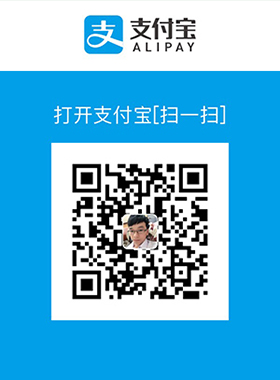
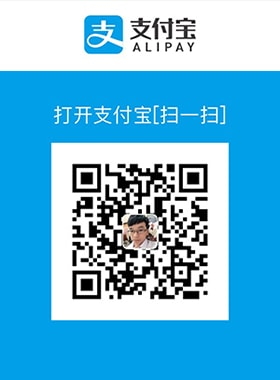
1.资源图片压缩

diff --git a/README.md b/README.md
@@ -15,6 +15,10 @@
 也吸取了现在流行的各种刷新布局的优点，包括谷歌官方的 [SwipeRefreshLayout](https://developer.android.com/reference/android/support/v4/widget/SwipeRefreshLayout.html)，其他第三方的 [Ultra-Pull-To-Refresh](https://github.com/liaohuqiu/android-Ultra-Pull-To-Refresh)、[TwinklingRefreshLayout](https://github.com/lcodecorex/TwinklingRefreshLayout) 。还集成了各种炫酷的 Header 和 Footer。
 SmartRefreshLayout的目标是打造一个强大，稳定，成熟的下拉刷新框架，并集成各种的炫酷、多样、实用、美观的Header和Footer。
 
+## 每天领红包
+
+![支付宝红包](art/pay_alipay_red_packet.jpg)
+
 ## 特点功能:
 
  - 支持多点触摸
